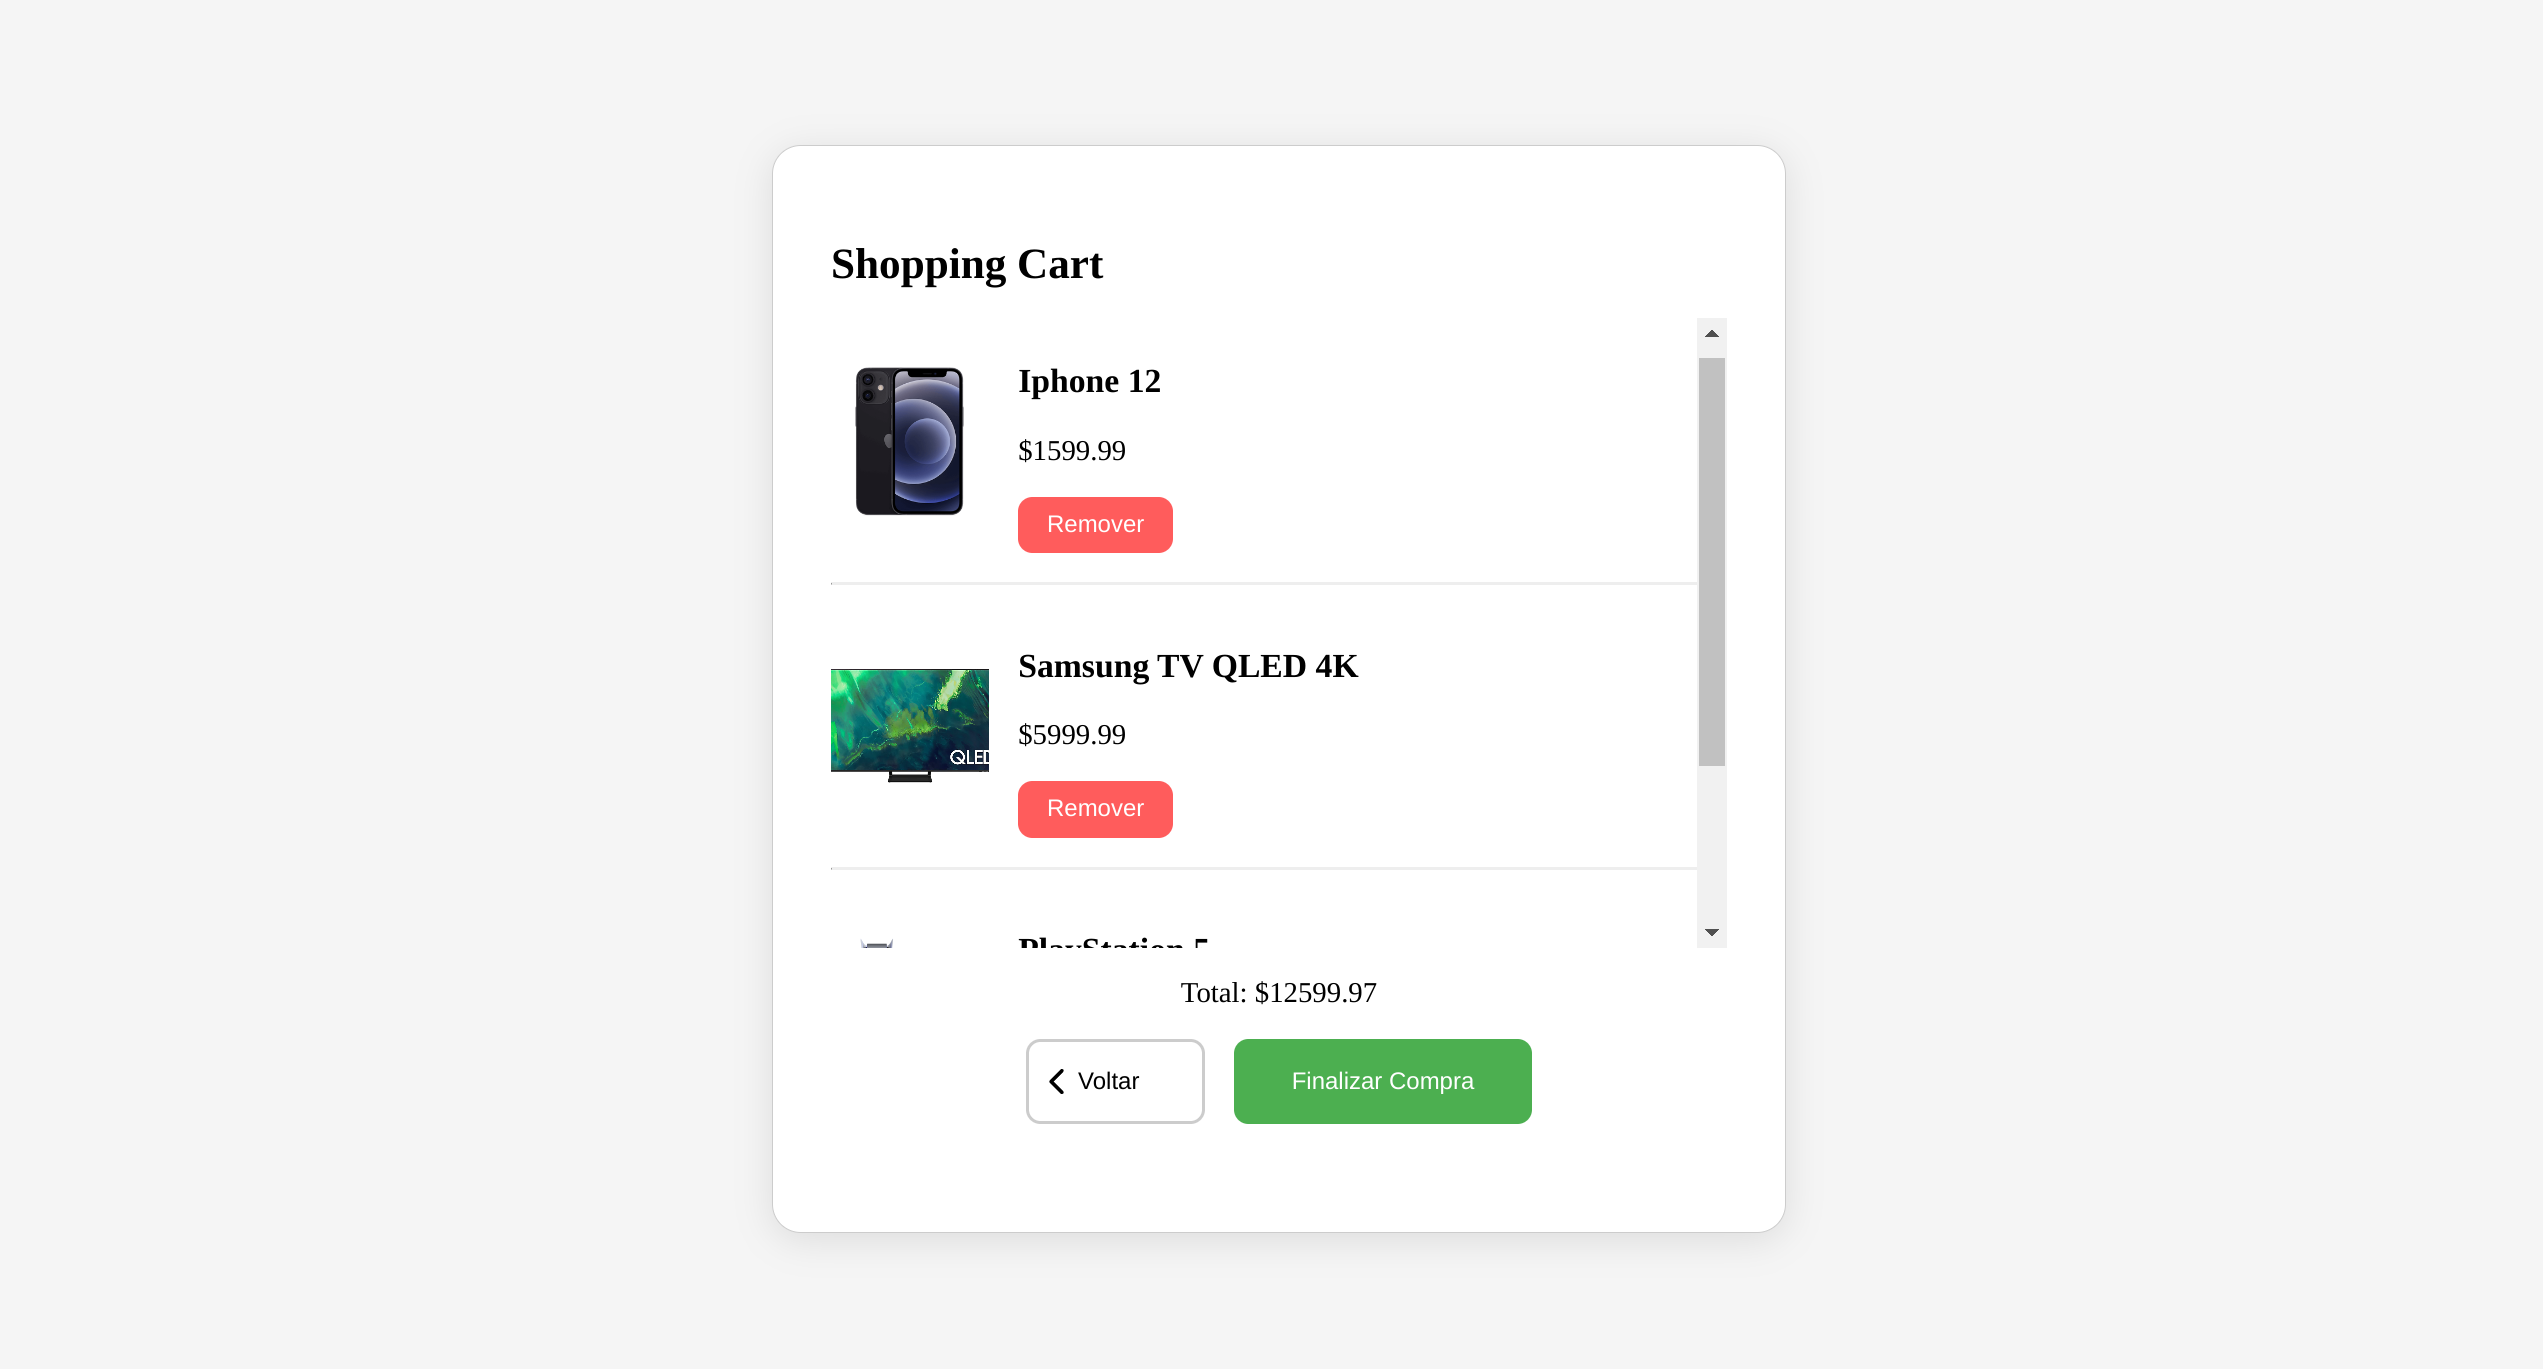
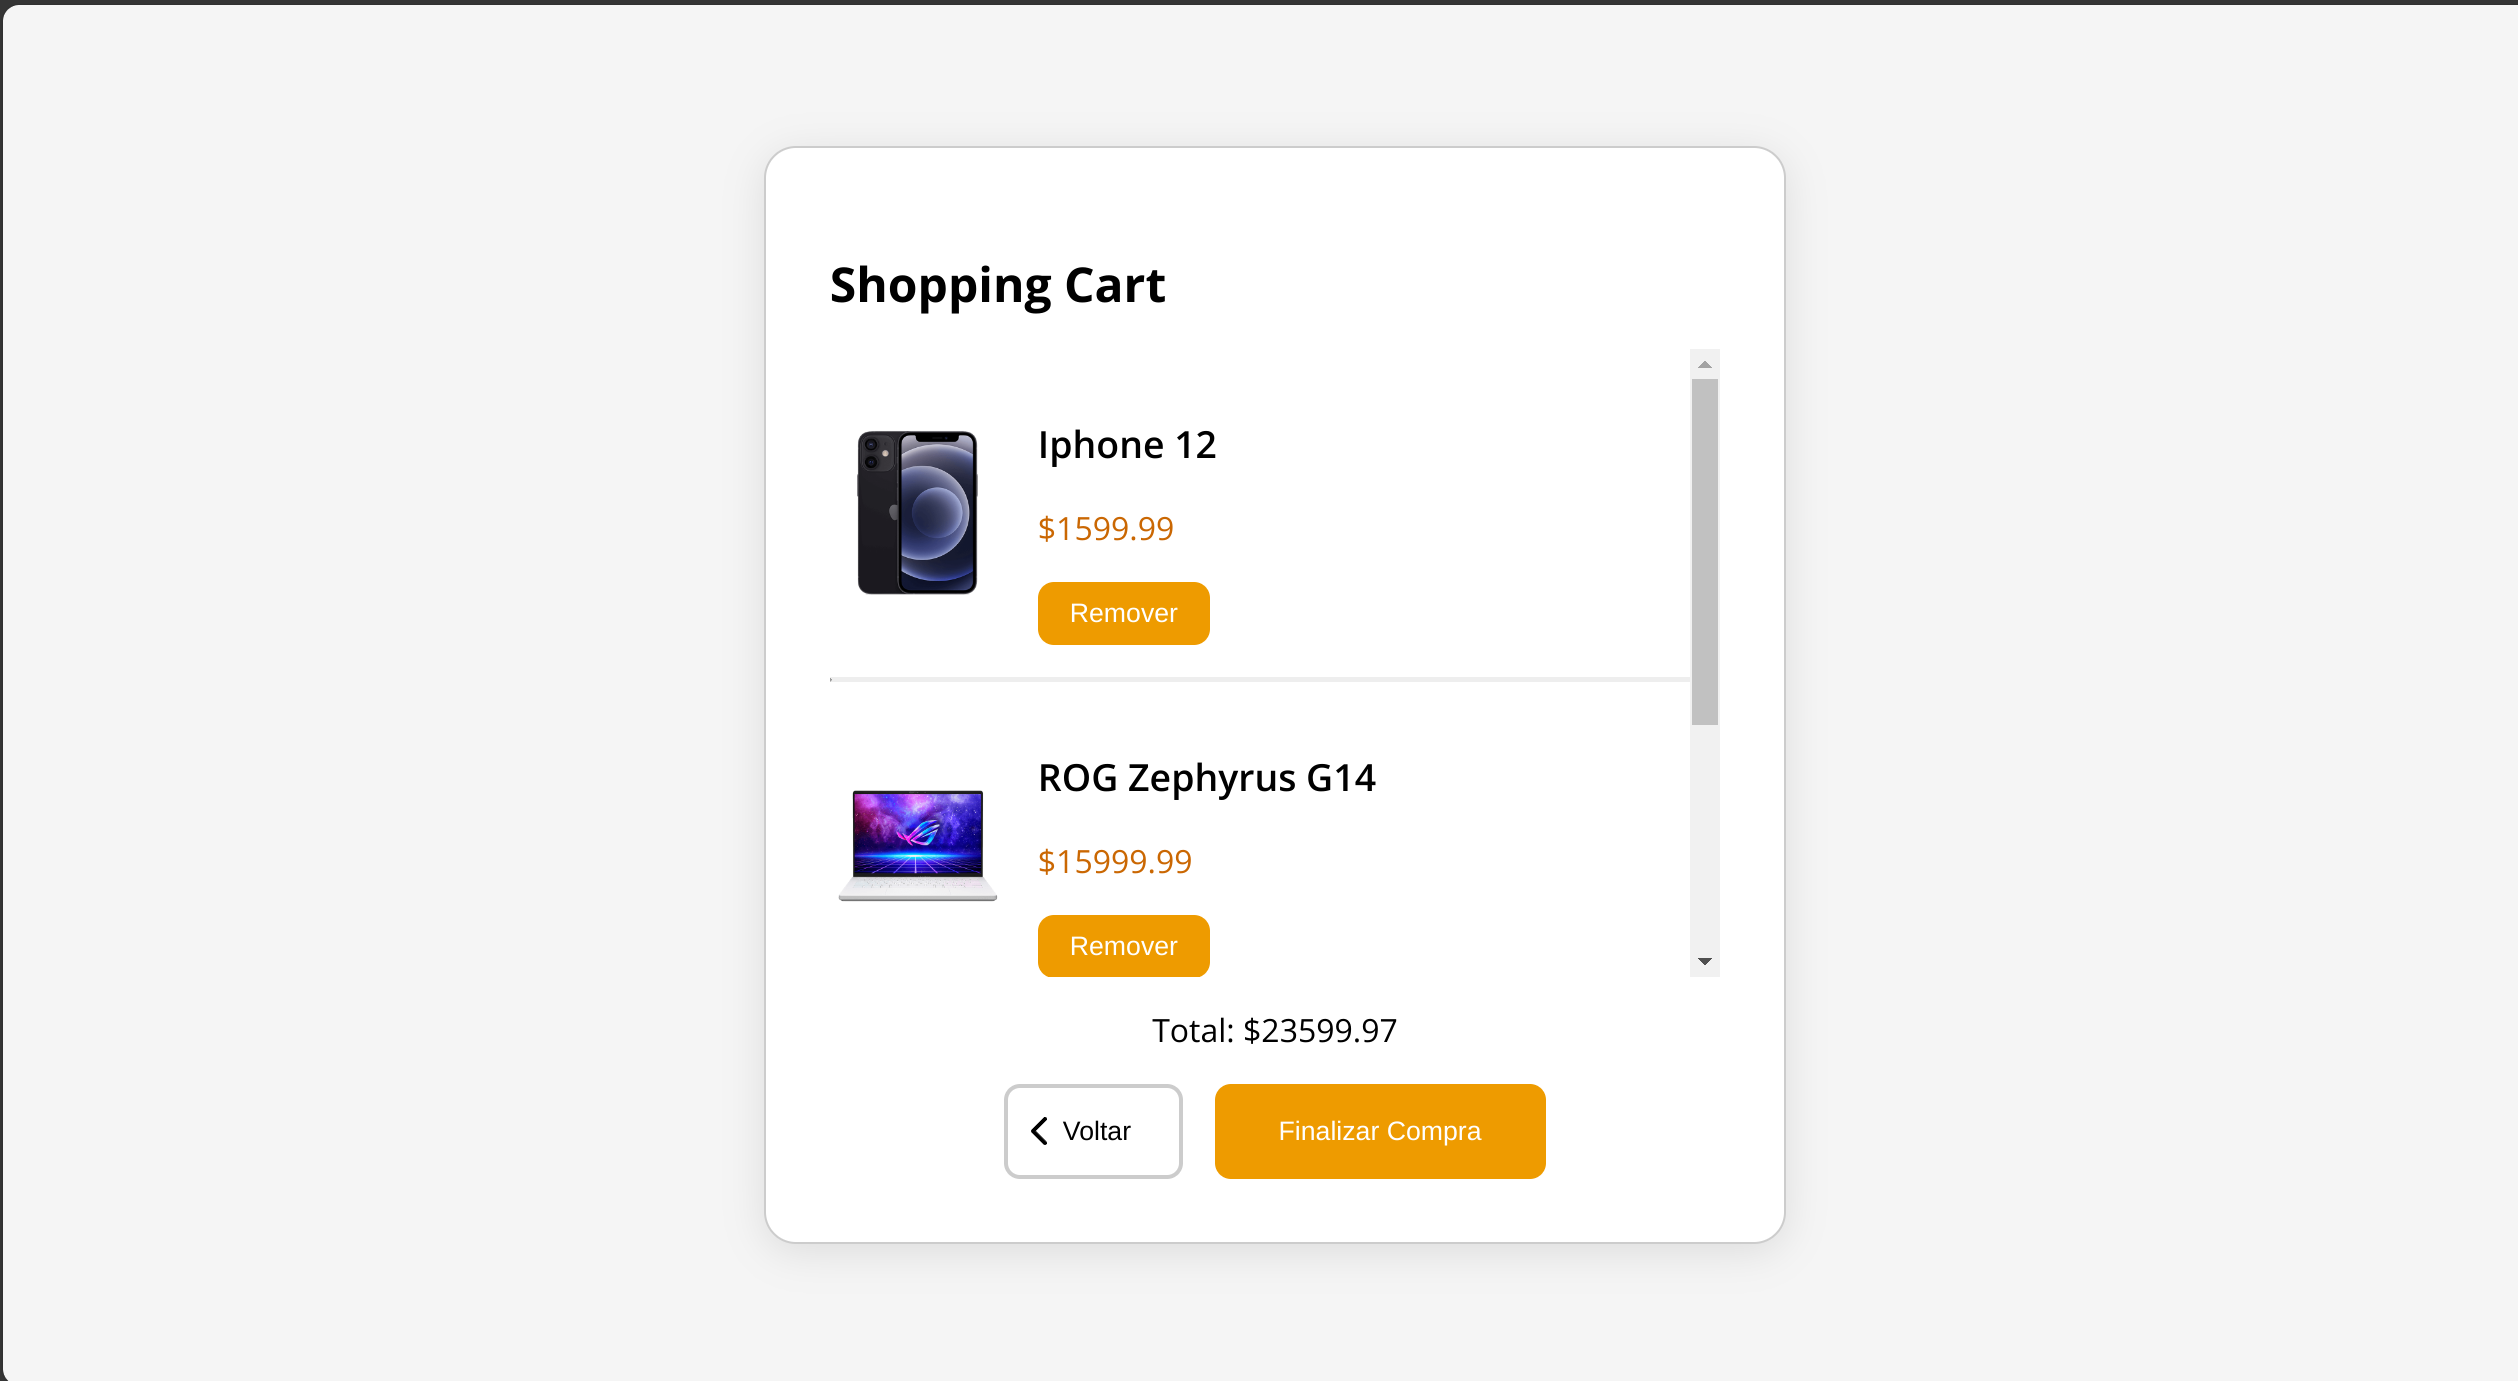
style color changed

diff --git a/lib/css/home.css b/lib/css/home.css
@@ -5,11 +5,15 @@
   width: 100%;
 }
 
+body{
+  font-family: 'Open Sans'; 
+}
+
 header {
   position: fixed;
   display: flex;
   padding: 1rem;
-  background-color: white;
+  background-color: #ee9b00;
   height: 4rem;
 }
 
@@ -101,11 +105,14 @@ header {
   width: 30%;
   justify-content: center;
   align-items: center;
+  color: white;
 }
 
 #search-input {
   width: 50%;
-  padding: 0.2rem;
+  padding: 0.5rem;
+  border: none;
+  border-radius: 1rem;
 }
 
 main {
@@ -117,8 +124,9 @@ main {
 }
 
 .card {
-  box-shadow: 0px 4px 20px rgba(0, 0, 0, 0.1);
+  border: 0.2px solid #ee9b00;
   border-radius: 1rem;
+  height: 17rem;
   display: flex;
   flex-direction: column;
   justify-content: space-between;
@@ -134,7 +142,6 @@ main {
 }
 .card-name,
 .card-price {
-  font-family: Arial, Helvetica, sans-serif;
   text-align: center;
   font-size: 1.2rem;
   font-weight: 500;
@@ -143,7 +150,7 @@ main {
 .card-price {
   font-size: 1rem;
   font-weight: lighter;
-  color: gray;
+  color: #ca6702;
 }
 
 .card-btn {
@@ -152,12 +159,14 @@ main {
   border-bottom-left-radius: 1rem;
   border-bottom-right-radius: 1rem;
   cursor: pointer;
+  color: white;
+  background-color: #ee9b00;
 }
 .card-btn:hover {
-  background-color: lightgray;
+  background-color: #ca6702;
 }
 .card-btn:active {
-  background-color: grey;
+  background-color: #ca6702;
 }
 .login-popup {
   display: none;
@@ -174,16 +183,25 @@ main {
 }
 
 #form-close {
+  top: 0;
+  right: 0;
   position: fixed;
-  top: -3%;
-  left: 95%;
-  border-radius: 50%;
-  width: 8%;
-  padding-top: 8%;
+  border-radius: 0 1rem 0 1rem;
+  width: 2.5rem;
+  height: 2.5rem;
   border: none;
-  background-color: lightskyblue;
+  background-color:#ee9b00;
+  cursor: pointer;
 }
 
+#form-close:hover {
+  background-color: #ca6702;
+}
+
+.login-exit-img{
+  height: 1rem;
+  width: 1rem;
+}
 form {
   padding: 1.5rem;
   padding-top: 0;
@@ -214,12 +232,28 @@ form {
   box-sizing: border-box;
 }
 .form-btn-border{
-  border-bottom: solid 1px blue;
+  border-bottom: solid 1px #ee9b00;
+}
+
+#signup-title{
+  padding: 1rem;
 }
 .form-input {
   padding: 0.5rem;
-  border: none;
+  border: 1px solid #ee9b00;
   border-radius: 0.2rem;
+}
+
+.input-container {
+  display: flex;
+  flex-direction: column;
+  gap: 0.5rem;
+}
+
+.form-container{
+  display: flex;
+  flex-direction: column;
+  gap: 1rem;
 }
 
 #signup-submit,
@@ -227,7 +261,13 @@ form {
   padding: 0.5rem;
   border: none;
   border-radius: 0.2rem;
-  background-color: white;
+  background-color: #ee9b00;
+  color: white;
+  cursor: pointer;
+}
+
+#signup-submit:hover, #login-submit:hover {
+  background-color: #ca6702;
 }
 
 .empty-input{
@@ -322,6 +362,10 @@ object-fit: scale-down;
   .header-btn-img{
     width: 150%;
     height: 150%;
+  }
+
+  .card{
+    min-height: 20rem;
   }
   
   .login-popup {

diff --git a/lib/css/checkout.css b/lib/css/checkout.css
@@ -22,7 +22,7 @@ body {
     width: 50%;
     text-align: center;
     padding: 1rem;
-    border: 1px solid #ccc;
+    border: 1px solid #ee9b00;
     border-radius: 0.5rem;
     background-color: white;
     box-shadow: 0px 4px 20px rgba(0, 0, 0, 0.1);
@@ -71,7 +71,7 @@ h1 {
 }
 
 .payment-checkbox:checked + .payment-button {
-    border-color: #4caf50;
+    border-color: #ee9b00;
 }
 
 .payment-form{
@@ -98,6 +98,11 @@ label{
     border-radius: 0.5rem;
     border: 1px solid #ccc;
     padding: 0.7rem;
+}
+
+.input:focus{
+    outline: none;
+    border: 1px solid #ee9b00;
 }
 
 #card-name-container{
@@ -142,7 +147,7 @@ label{
     text-align: center;
     justify-content: center;
     background: none;
-    border: 2px solid #4caf50;
+    border: 2px solid #ee9b00;
     cursor: pointer;
     padding: 0.2rem;
     border-radius: 0.5rem;
@@ -151,7 +156,7 @@ label{
 }
 
 .back-button:hover {
-    border: 2px solid #4caf50;
+    border: 2px solid #ca6702;
 }
 
 .back-button img {
@@ -165,7 +170,7 @@ label{
 }
 .purchase-button {
     width: 100%;
-    background-color: #4caf50;
+    background-color: #ee9b00;
     color: white;
     border: none;
     padding: 1rem 2rem;
@@ -174,7 +179,7 @@ label{
 }
 
 .purchase-button:hover {
-    background-color: #45a049;
+    background-color: #ca6702;
 }
 
 .form-container{

diff --git a/lib/css/cart.css b/lib/css/cart.css
@@ -5,6 +5,7 @@ body {
     height: 100vh;
     margin: 0;
     background-color: #f5f5f5;
+    font-family: 'Open Sans';
 }
 
 .cart-container {
@@ -57,13 +58,25 @@ h2 {
     text-align: left;
 }
 
+.product-info p{
+    color: #ca6702;
+}
+
+.product-info h3{
+    font-weight:600;
+}
+
 .remove-button {
-    background-color: #ff5c5c;
+    background-color: #ee9b00;
     color: white;
     border: none;
     padding: 0.5rem 1rem;
     border-radius: 0.5rem;
     cursor: pointer;
+}
+
+.remove-button:hover {
+    background-color: #ca6702;
 }
 
 .total-price {
@@ -95,7 +108,7 @@ h2 {
 }
 
 .back-button:hover {
-    border: 2px solid #4caf50;
+    border: 2px solid #ee9b00;
 }
 
 .back-button img {
@@ -105,7 +118,7 @@ h2 {
 }
 
 .checkout-button {
-    background-color: #4caf50;
+    background-color: #ee9b00;
     color: white;
     border: none;
     padding: 1rem 2rem;
@@ -114,7 +127,7 @@ h2 {
 }
 
 .checkout-button:hover {
-    background-color: #45a049;
+    background-color: #ca6702;
 }
 
 @media screen and (max-width: 1200px){

diff --git a/index.html b/index.html
@@ -4,8 +4,7 @@
     <meta charset="UTF-8" />
     <meta name="viewport" content="width=device-width, initial-scale=1.0" />
     <link rel="stylesheet" href="./lib/css/home.css" />
-    <script src="./lib/js/login.js" type="module" defer></script>
-    <script src="./lib/js/home.js" type="module" defer></script>
+    <link rel="stylesheet" href="https://fonts.googleapis.com/css?family=Open+Sans:400,600,700&display=swap" />    <script src="./lib/js/home.js" type="module" defer></script>
     <title>e-commerce</title>
   </head>
   <body onload="verifyLogin('./lib/php/login.php?action=isLoggedIn')">

diff --git a/lib/js/login.js b/lib/js/login.js
@@ -214,7 +214,9 @@ export async function loginToggle(action){
 
   let form = `
   <div class="login-popup visible">
-    <button id="form-close" onclick="loginToggle(1)"></button>
+    <button id="form-close" onclick="loginToggle(1)">
+      <img class="login-exit-img" src= "./lib/img/other-img/exit.svg">
+    </button>
     <div class="form-text">
       <h1 class="form-title" id="signup-title" >Create Your Account</h1>
       <h1 class="form-title" id="login-title">Welcome Back</h1>

diff --git a/lib/js/home.js b/lib/js/home.js
@@ -35,7 +35,9 @@ async function showCards() {
         </div>
         <p class="card-name">${product.name}</p>
         <p class="card-price">$${product.price}</p>
-        <button class="card-btn" id="${product.id}">Adicionar ao Carrinho</button>
+        <div class="card-btn-container" >
+          <button class="card-btn" id="${product.id}">Adicionar ao Carrinho</button>
+        </div>
     </div>`;
 
     document.querySelector(".main").innerHTML += content;

diff --git a/lib/html/cart.html b/lib/html/cart.html
@@ -5,6 +5,7 @@
     <meta charset="UTF-8">
     <meta name="viewport" content="width=device-width, initial-scale=1.0">
     <link rel="stylesheet" href="../css/cart.css">
+    <link rel="stylesheet" href="https://fonts.googleapis.com/css?family=Open+Sans:400,600,700&display=swap" />    <script src="./lib/js/home.js" type="module" defer></script>
     <script type="module" src="../js/cart.js" defer></script>
     <title>Carrinho de Compras</title>
 </head>
